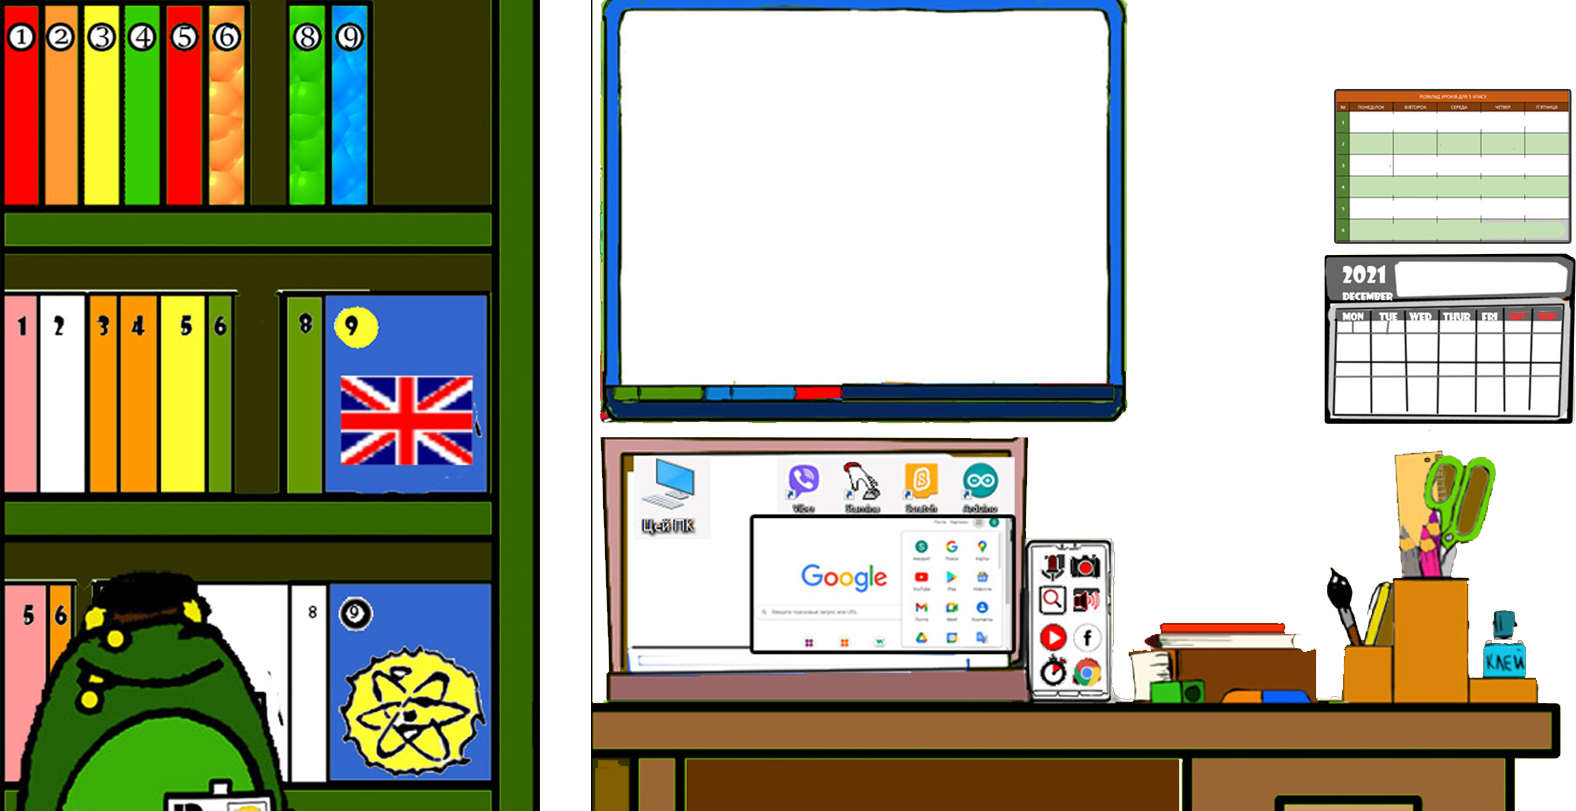
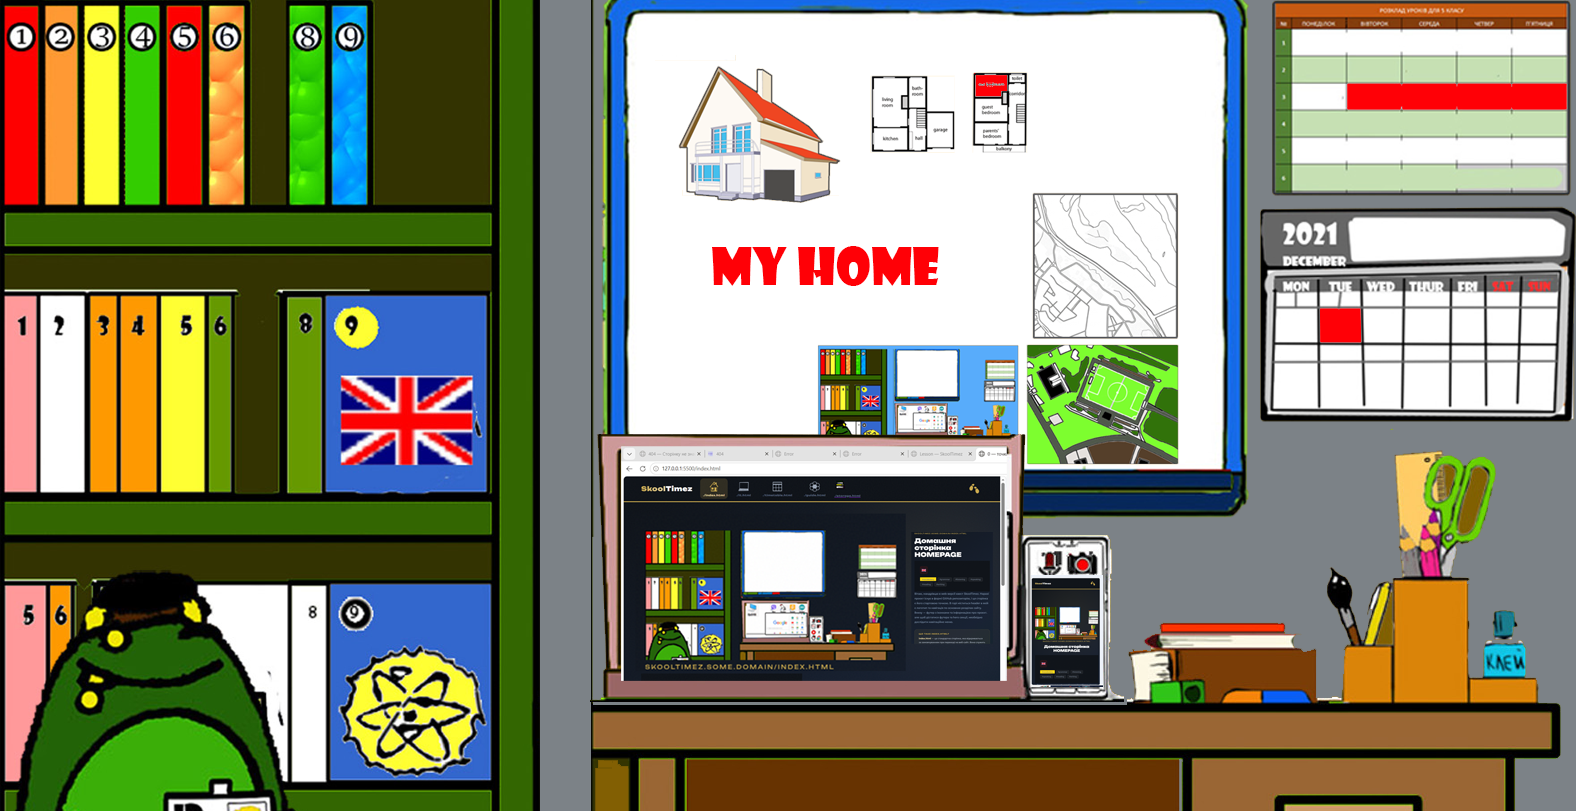
react

diff --git a/main.css b/main.css
@@ -169,6 +169,55 @@ body::before {
 }
 .mob-nav__item.current .mob-menu__link { color: var(--gold-lt); }
 
+
+/* Tags row */
+.lesson-tags {
+  display: flex; flex-wrap: wrap; gap: .5rem;
+  margin-top: 1.2rem;
+  animation: fadeUp .5s .3s ease both;
+}
+
+
+.tag {
+  font-family: 'Geologica', sans-serif;
+  font-size: .72rem; font-weight: 500;
+  color: #6a7585; background: rgba(255,255,255,.06);
+  border: 1px solid rgba(255,255,255,.12);
+  border-radius: 6px; padding: .22rem .7rem;
+  cursor: default; transition: background .15s, border-color .15s;
+}
+.tag:hover { background: rgba(201,168,76,.12); border-color: rgba(201,168,76,.35); color: var(--gold-lt); }
+
+
+/* ═══════════════════════════════════════════
+   LESSON HEADER CARD
+═══════════════════════════════════════════ */
+.lesson-hero {
+  background: linear-gradient(135deg, var(--ink) 0%, #162032 60%, #0d2a1f 100%);
+  border-bottom: 3px solid var(--gold);
+  padding: clamp(2rem, 6vh, 4rem) 0;
+  position: relative; overflow: hidden;
+}
+.lesson-hero::before {
+  content: ''; position: absolute;
+  top: -60px; right: -80px;
+  width: 380px; height: 380px; border-radius: 50%;
+  background: radial-gradient(circle, rgba(201,168,76,.14) 0%, transparent 70%);
+  pointer-events: none;
+}
+.lesson-hero::after {
+  content: ''; position: absolute;
+  bottom: -40px; left: 5%;
+  width: 240px; height: 240px; border-radius: 50%;
+  background: radial-gradient(circle, rgba(26,106,90,.18) 0%, transparent 70%);
+  pointer-events: none;
+}
+
+.lesson-hero .container { position: relative; z-index: 1; }
+
+
+
+
 /* ═══════════════════════════════════════════════════
    HERO  404
 ═══════════════════════════════════════════════════ */